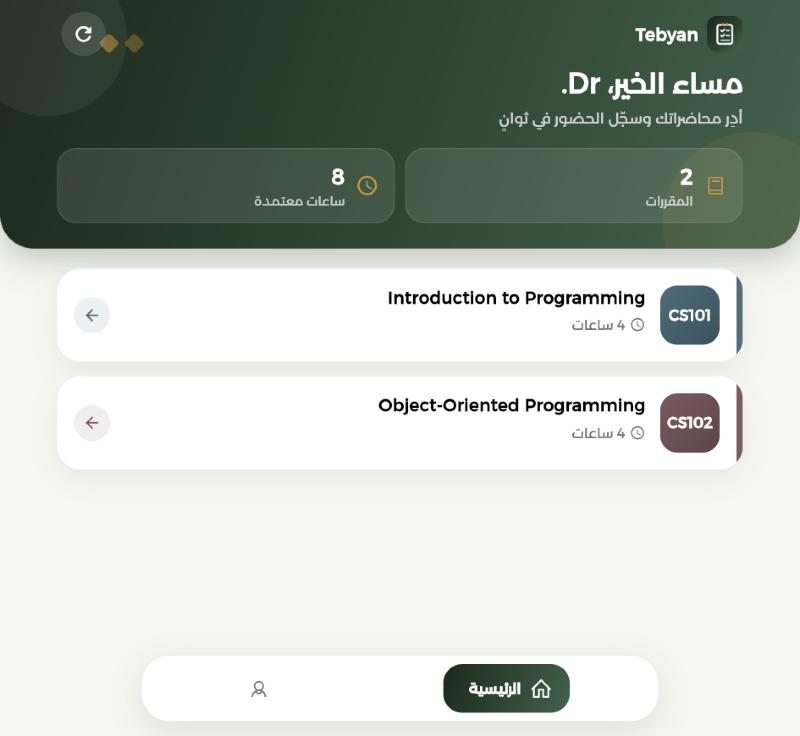
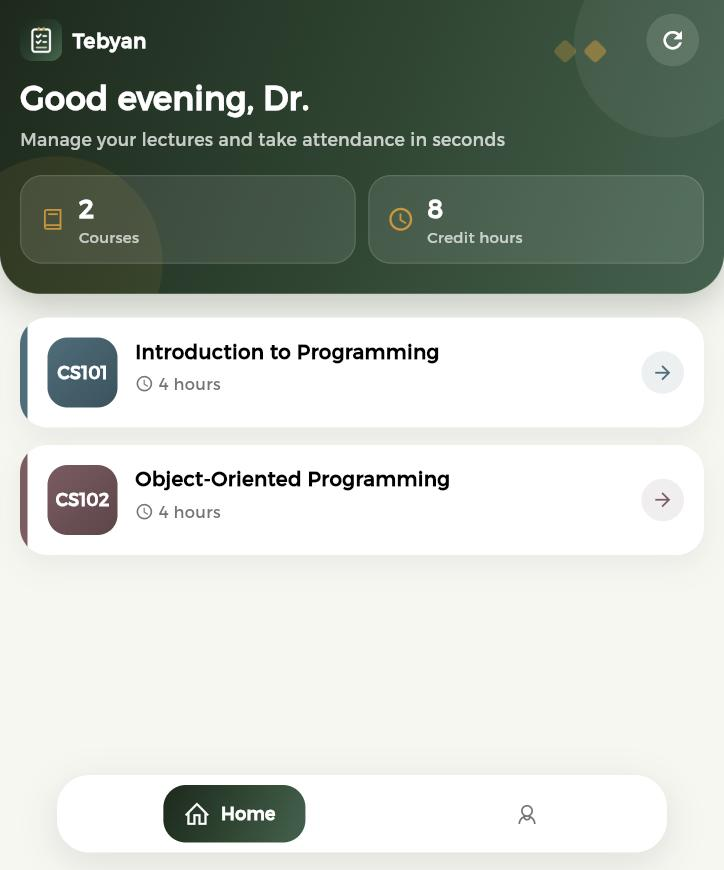
Use English screenshots in README

diff --git a/README.md b/README.md
@@ -40,13 +40,11 @@ The app works on phones and computers, supports **Arabic (right-to-left)** and
 
 ## Screenshots
 
-| Sign in | Lecturer home | Lectures |
-|:---:|:---:|:---:|
-| <img src="screenshots/login.jpg" width="260" alt="Sign-in page"/> | <img src="screenshots/lecturer-home.jpg" width="260" alt="Lecturer home page"/> | <img src="screenshots/lectures.jpg" width="260" alt="Lectures of a course"/> |
-
-| Attendance settings (expiry time and location check) | Attendance sheet |
+| Lecturer home | Lectures of a course |
 |:---:|:---:|
-| <img src="screenshots/attendance-settings.jpg" width="390" alt="Attendance settings"/> | <img src="screenshots/attendance-sheet.jpg" width="390" alt="Attendance sheet"/> |
+| <img src="screenshots/lecturer-home.jpg" width="390" alt="Lecturer home page"/> | <img src="screenshots/lectures.jpg" width="390" alt="Lectures of a course"/> |
+| **Taking attendance** (code expiry and location check) | **Attendance list** |
+| <img src="screenshots/attendance-settings.jpg" width="390" alt="Attendance settings"/> | <img src="screenshots/attendance-sheet.jpg" width="390" alt="Attendance list"/> |
 
 ## Background
 
